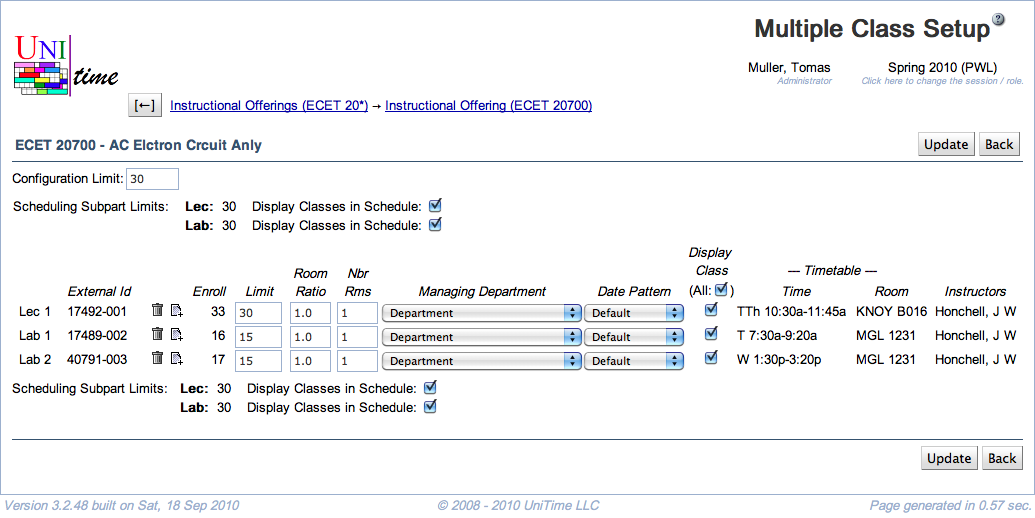
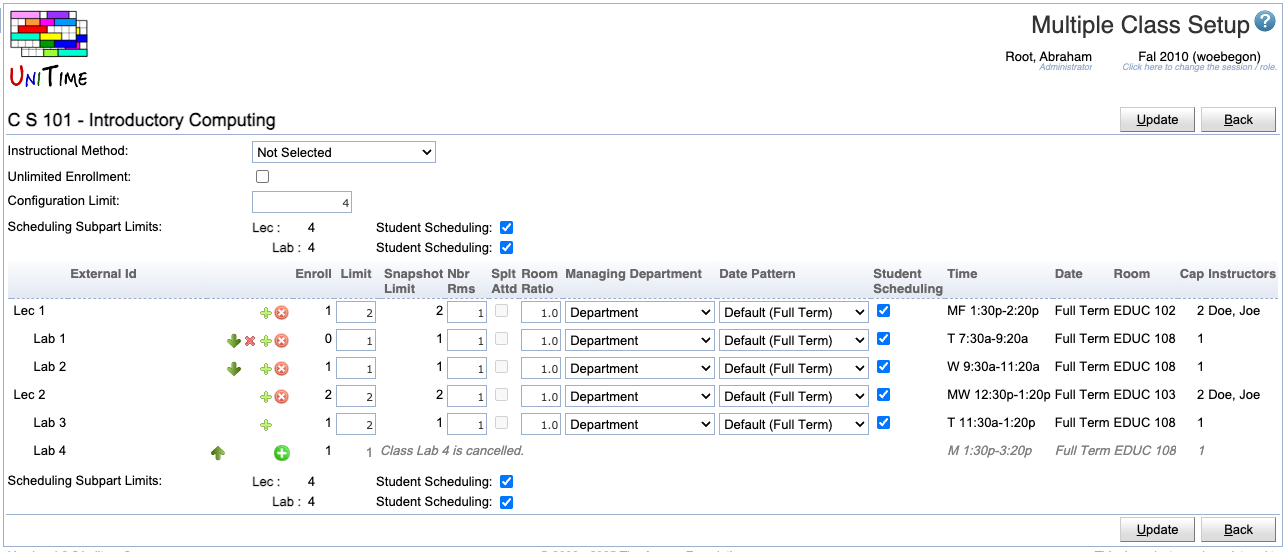
Multiple Class Setup
- new screenshots, new fields, text cleanup

Changed region(s): [[0.0, 0.0, 1.0, 1.0], [0.1855, 0.8649, 0.2164, 0.8958]]

diff --git a/multiple-class-setup.md b/multiple-class-setup.md
@@ -6,75 +6,109 @@ title: Multiple Class Setup
 
 ## Screen Description
 
-In the Multiple Class Setup screen it is possible to set properties on the class level (as opposed to setting them on the scheduling subpart level in the [Instructional Offering Configuration](instructional-offering-configuration) screen) - there is a line for each class for a given configuration in the instructional offering.
+In the Multiple Class Setup screen, it is possible to set properties on the class level (as opposed to setting them on the scheduling subpart level in the [Instructional Offering Configuration](instructional-offering-configuration) screen). There is a line for each class for a given configuration in the instructional offering.
 
 ![Multiple Class Setup](images/multiple-class-setup-1.png){:class='screenshot'}
 
 ## Details
 
+* **Instructional Method**
+    * An optional instructional method for the configuration (such as Traditional, Online, or Hybrid)
+    * Instructional methods are defined on [Instructional Methods](instructional-methods) page in the Administration
+
+* **Unlimited Enrollment**
+    * Check this checkbox if the configuration has unlimited enrollment
+    * When Unlimited Enrollment is selected, all classes are unlimited and have no rooms assigned
+        * You have the option to indicate a room to print on the student schedule by requiring that room in the scheduling subpart or the class preferences. However, please note that there is no verification check for the room's availability; it is simply printed on the schedule.
+
 * **Configuration Limit**
-	* Number of students you want to allow to register for the instructional offering in this configuration (in most cases, same as the instructional offering limit, which is in most cases the same as the course limit - with the exception of cross-listed courses)
+    * Number of students you want to allow to register for the instructional offering in this configuration (in most cases, same as the instructional offering limit, which is in most cases the same as the course limit - except cross-listed courses)
 
 * **Scheduling Subpart Limits**
-	* The totals of class limits for each scheduling subpart (class limits can be changed in this screen)
-	* **Up** and **down** arrows
-		* When classes are grouped, it is possible to move a class to a different group - for example, if recitations are grouped with lectures, you can move a recitation from one lecture to another
-		* Useful when e.g. adding a recitation to a lecture in the middle of the list of classes
-	* **Trashbin icon**
-		* Click on this icon to delete the class on the same line as the trash bin
-		* If you delete a class that has other classes grouped underneath, the grouped classes will be deleted as well
-	* **+ icon**
-		* Click on this icon to add a class of the same instructional type with the same parameters
-		* If you click on this icon on the line with a class that has more classes grouped underneath, the whole group is added (for example, if you click on a lecture that has a recitation underneath, another lecture together with another recitation is added)
+    * The totals of class limits for each scheduling subpart (class limits can be changed on this screen)
+        * The individual subpart limits should match or be greater than the offering limit
+    * Use the **Display Instructors** and **Student Scheduling** toggles to change the settings for all classes of the scheduling subpart (displayed only when enabled).
+
+* **External Id**
+    * External id of a class (sometimes also referred to as class suffix).
+    * The column is only visible when `tmtbl.class_setup.show_display_external_ids` property is set to `true`.
+    * External ids can be edited when `tmtbl.class_setup.edit_external_ids` property is set to `true`.
+
+* **Class Icons**
+    * ![Up](images/icon-up.png) and ![Down](images/icon-down.png) arrows
+        * When classes are grouped, it is possible to move a class to a different group (under a different parent class) - for example, if recitations are grouped with lectures, you can move a recitation from one lecture to another
+        * Useful when, e.g., adding a recitation to a lecture in the middle of the list of classes
+    * ![Delete](images/icon-delete.png) cross icon
+        * Click on this icon to delete the class on the same line as the trash bin
+        * If you delete a class that has other classes grouped underneath, the grouped classes will be deleted as well
+        * It is not allowed to delete a class that has students enrolled. Such a class can only be canceled.
+    * ![Add](images/icon-add.png) plus icon
+        * Click on this icon to add a class of the same instructional type with the same parameters
+        * If you click on this icon on the line with a class that has more classes grouped underneath, the whole group is added (for example, if you click on a lecture that has a recitation underneath, another lecture together with another recitation is added)
+    * ![Cancel](images/icon-cancel.png) cancel icon
+        * Cancel the class
+        * Students cannot be enrolled in a canceled class. If re-scheduling or wait-listing is enabled, students will be automatically re-scheduled to other available classes within the course or dropped and wait-listed if there is not enough space or a time conflict exists.
+    * ![Reopen](images/icon-reopen.png) reopen icon
+        * Reopen a canceled class
+    * **Note:** Some operations may not be available (not shown) to ensure consistent results (e.g., there is no parent class left without any child classes).
 
 * **Enroll**
-	* Number of enrolled students (if enrollment data is available)
+    * Number of enrolled students (if enrollment data is available)
 
 * **Limit**
-	* Set up the limit for a given class
-	* If you need to set the limit for a class to zero, make sure that you set the Room Ratio to the size of the room that you want for the class - in this case, Room Ratio has a special meaning
-	* To be able to set variable limits per class, you need to change the property "Show the option to set variable class limits" in the [Manager Settings](manager-settings) screen (menu: Preferences → Settings) before you edit this configuration
+    * Set up the limit for a given class
+    * If you need to set the limit for a class to zero, make sure that you set the Room Ratio to the size of the room that you want for the class - in this case, Room Ratio has a special meaning
+    * To be able to set variable limits per class, you need to change the property "Show the option to set variable class limits" in the [Manager Settings](manager-settings) screen (menu: Preferences → Settings) before you edit this configuration
 
-* **Room Ratio**
-	* The ratio of the required room size to the class limit
-		* Room Ratio = Room Size / Limit per Class
-	* In almost all cases, this should be one
-	* Some exceptions to the norm
-		* You need a room for fewer students than the class limit (Room Ratio is less than one)
-			* Example: A course has a PSO class for 100 students, but the schedule deputy knows that there will never be more than 50 students at a time in this PSO. Hence this PSO can be set up with Limit per Class = 100 and Room Ratio = 0.50, which means that the application will look for a room of size 50 or more (0.5*100=50).
-		* You need a room for a class with zero limit. In this case, Room Ratio needs to contain the required room size.
-			* Example: You set up a course with zero limit where all students require name raises. You plan on enrolling 20 students per class. Then the Room Ratio should be set to 20. In this situation, the above formula for Room Ratio does not apply. The Room Ratio will be used as the room size needed.
+* **Snapshot Limit**
+    * The limit for the class at the time the Limit and Projection Snapshot was taken (using the [Limit and Projection Snapshot](limit-and-projection-snapshot) page).
+    * Can be editable when `tmtbl.class_setup.edit_snapshot_limits` is set to `true`.
 
 * **Number of Rooms**
-	* Number of rooms that you need for a class (usually one)
+    * Number of rooms that you need for a class (usually one)
+
+* **Split Attendance**
+    * When two or more rooms are needed
+    * If checked, students are expected to split between the two (or more) rooms. That is the total capacity of the assigned room &times; the room ratio must be equal to or greater than the class limit.
+    * If unchecked, all students are expected to be able to fit in any of the assigned rooms. That is, the room capacity of any assigned room &times; the room ratio must be equal to or greater than the class limit.
+
+* **Room Ratio**
+    * The ratio of the required room size to the class limit
+        * Room Ratio = Room Size / Limit per Class
+    * In almost all cases, this should be one
+    * Some exceptions to the norm
+        * You need a room for fewer students than the class limit (Room Ratio is less than one)
+            * Example: A course has a PSO class for 100 students, but the schedule deputy knows that there will never be more than 50 students at a time in this PSO. Hence, this PSO can be set up with Limit per Class = 100 and Room Ratio = 0.50, which means that the application will look for a room of size 50 or more (0.5*100=50).
+        * You need a room for a class with zero limit. In this case, Room Ratio needs to contain the required room size.
+            * Example: You set up a course with zero limit where all students require name raises. You plan on enrolling 20 students per class. Then, the Room Ratio should be set to 20. In this situation, the above formula for Room Ratio does not apply. The Room Ratio will be used as the room size needed.
 
 * **Managing Department**
-	* Determines who will assign time and room to this class (for example, whether it is the Large Lecture Room manager, the departmental schedule deputy, or the Computing Lab manager)
-	* The managing department also determines the set of rooms and/or times (time patterns) that you can use when you set up preferences
-	* For Managing Department other than "Departmental" you usually cannot set the preference level "Required" in the preferences on the subparts or on the classes (in the [Edit Scheduling Subpart](edit-scheduling-subpart) or in the [Edit Class](edit-class) screens)
+    * Determines who will assign time and room to this class (for example, whether it is the Large Lecture Room manager, the departmental schedule deputy, or the Computing Lab manager)
+    * The managing department also determines the set of rooms and/or times (time patterns) that you can use when you set up preferences
+    * For Managing Department other than "Department", you usually cannot set the preference level "Required" in the preferences on the subparts or on the classes (in the [Edit Scheduling Subpart](edit-scheduling-subpart) or in the [Edit Class](edit-class) screens)
 
 * **Date Pattern**
-	* Indicates which weeks during the semester the class is taught
-	* "Default" means that the date pattern is inherited from the scheduling subpart
-	* If you need to use a pattern that does not appear in the list, use the form in the [Contact Us](contact-us) screen (under Help)
+    * Indicates which weeks during the semester the class is taught
+    * "Default" means that the date pattern is inherited from the scheduling subpart
+    * If you need to use a pattern that does not appear in the list, use the form in the [Contact Us](contact-us) screen (under Help)
 
 * **Timetable**
-	* **Time** and **Room** assigned to the class if a timetable has been created (the loaded timetable is displayed; if none is loaded, the selected one is displayed; if none is selected, then the committed timetable is displayed)
+    * **Time** and **Room** assigned to the class if a timetable has been created (the loaded timetable is displayed; if none is loaded, the selected one is displayed; if none is selected, then the committed timetable is displayed)
 
 * **Display Instructors**
-	* When checked (and it is checked by default), the instructor's name will be displayed in the online Schedule of Classes
-	* When not checked, the instructor's name will not be displayed in the online Schedule of Classes - the name not to be displayed is in italics wherever it is listed ([Instructional Offerings](instructional-offerings), [Instructional Offering Detail](instructional-offering-detail), [Scheduling Subpart Detail](scheduling-subpart-detail), [Classes](classes), ...)
-	* **All** - check or uncheck for all classes
+    * When checked (and it is checked by default), the instructor's name will be displayed in the online Schedule of Classes
+    * When not checked, the instructor's name will not be displayed in the online Schedule of Classes - the name not to be displayed is in italics wherever it is listed ([Instructional Offerings](instructional-offerings), [Instructional Offering Detail](instructional-offering-detail), [Scheduling Subpart Detail](scheduling-subpart-detail), [Classes](classes), ...)
+    * Only visible when `tmtbl.class_setup.show_display_instructor_flags` is set to `true`
 
 * **Student Scheduling**
-	* When checked (and it is checked by default), the class will be available to students during student scheduling
-	* When not checked, the class will be treated as with zero limit during student scheduling (only students with individual reservations will be able to get in) - the class not to be displayed is in italics wherever it is listed ([Instructional Offerings](instructional-offerings), [Instructional Offering Detail](instructional-offering-detail), [Scheduling Subpart Detail](scheduling-subpart-detail), [Classes](classes), ...)
-	* **All** - check or uncheck for all classes
+    * When checked (and it is checked by default), the class will be available to students during student scheduling
+    * When not checked, the class will be treated as with zero limit during student scheduling (only students with individual reservations will be able to get in) - the class not to be displayed is in italics wherever it is listed ([Instructional Offerings](instructional-offerings), [Instructional Offering Detail](instructional-offering-detail), [Scheduling Subpart Detail](scheduling-subpart-detail), [Classes](classes), ...)
+    * Only visible when `tmtbl.class_setup.show_enabled_for_student_scheduling` is set to `true`
 
 ## Operations
 
 * **Update** (Alt+U)
-	* Save changes and go back to the [Instructional Offering Detail](instructional-offering-detail) screen.
+    * Save changes and go back to the [Instructional Offering Detail](instructional-offering-detail) screen.
 
 * **Back** (Alt+B)
-	* Go back to the [Instructional Offering Detail](instructional-offering-detail) screen without saving any changes.
+    * Go back to the [Instructional Offering Detail](instructional-offering-detail) screen without saving any changes.
